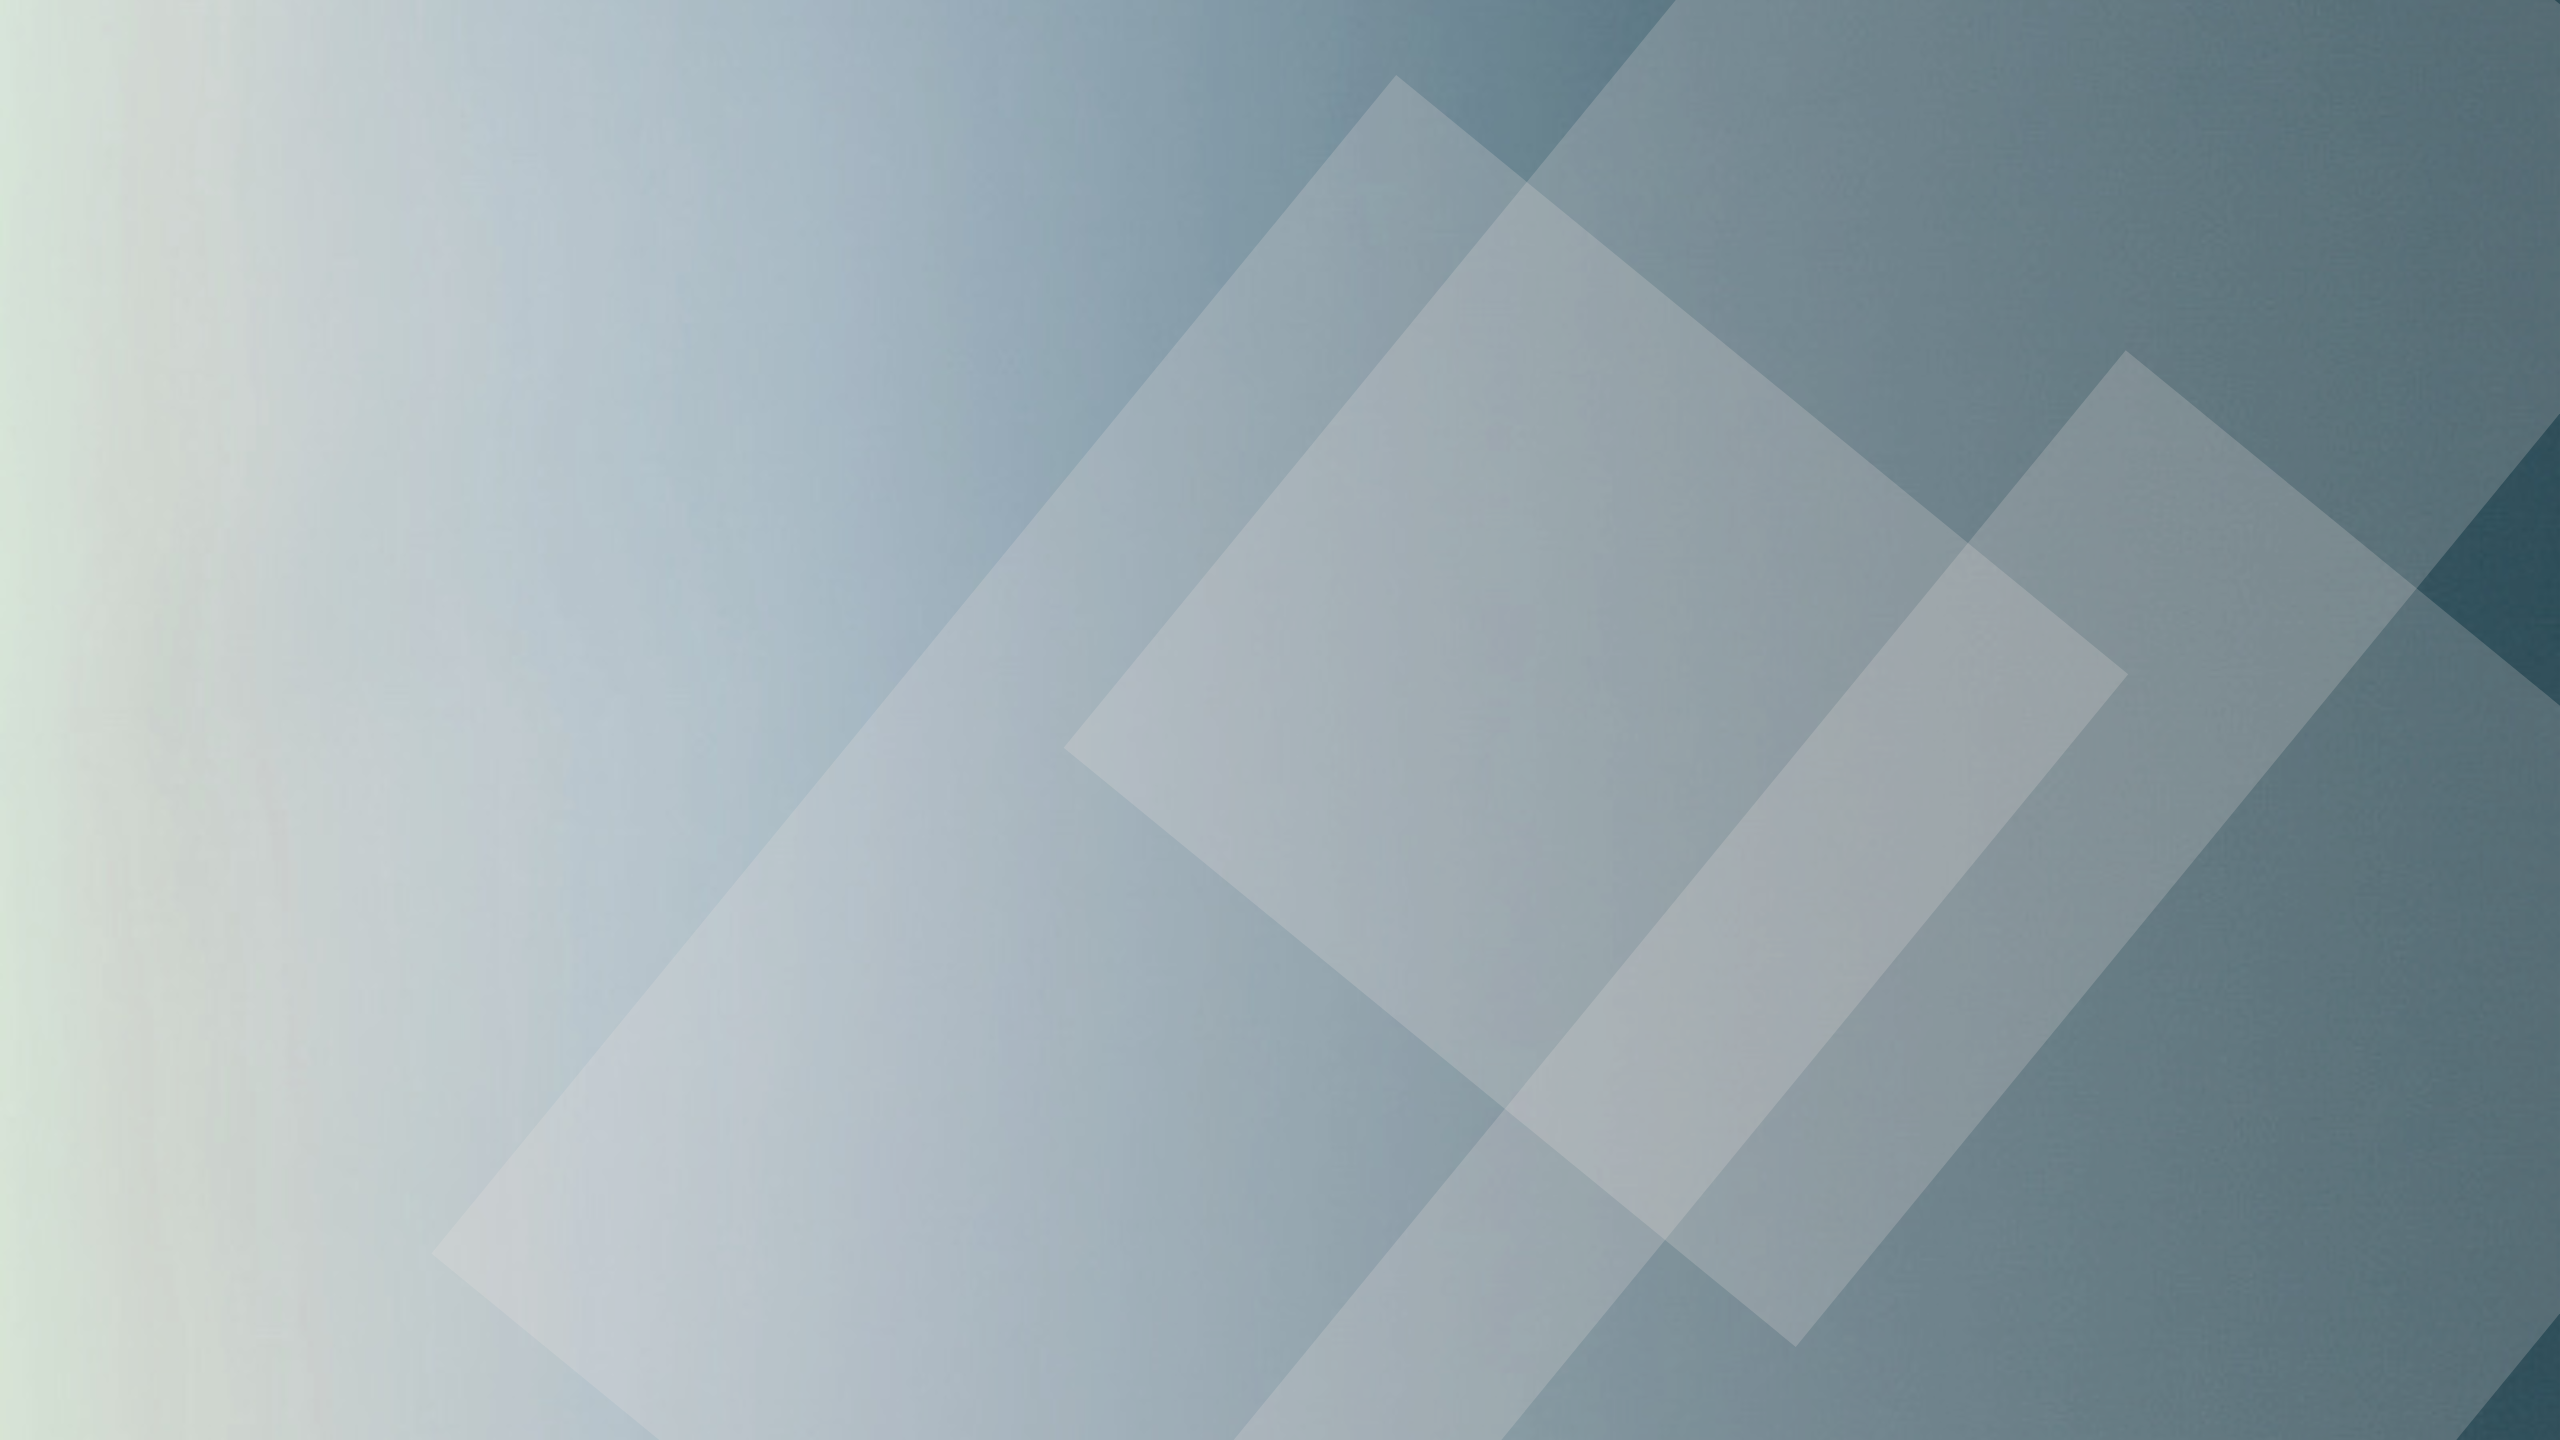
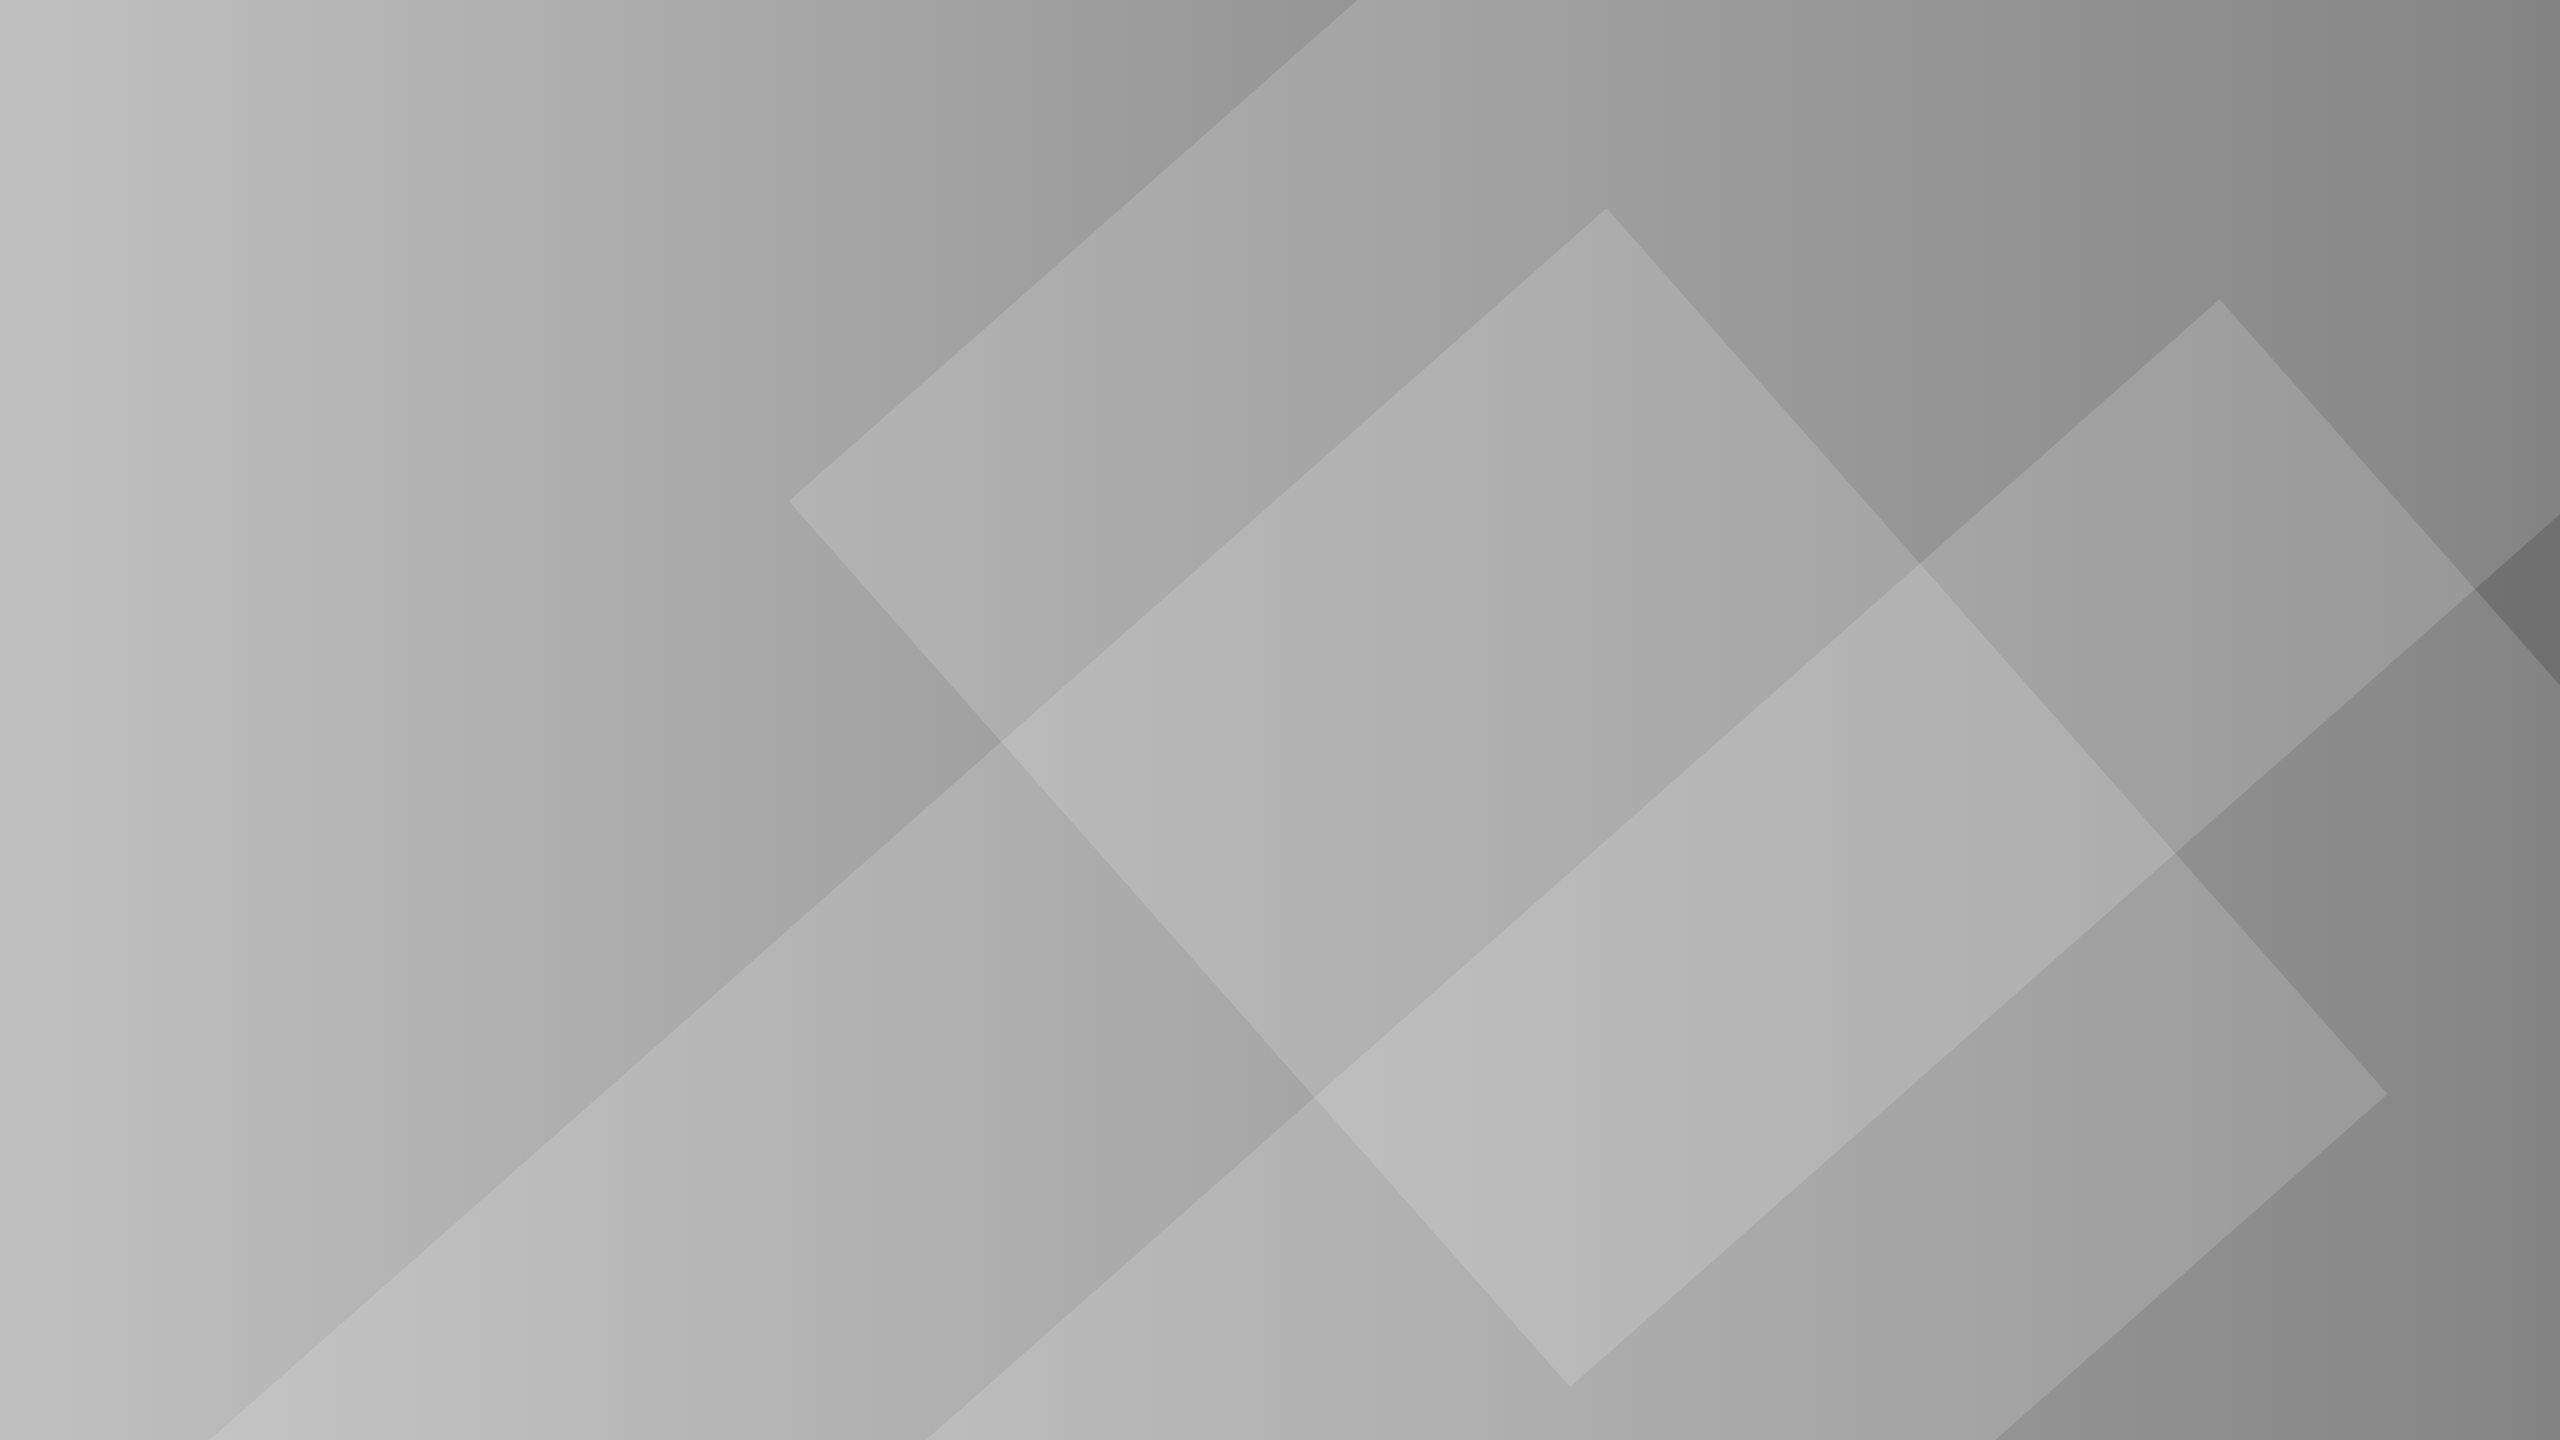
CSS: about me

diff --git a/style.css b/style.css
@@ -1,5 +1,3 @@
-/* Global */
-
 :root {
   /* Color */
   --color-white: #ffffff;
@@ -28,6 +26,7 @@
   --weight-regular: 400;
 }
 
+/* Global */
 * {
   box-sizing: border-box;
   margin: 0;
@@ -52,6 +51,26 @@ button {
   cursor: pointer;
   border: none;
   outline: none;
+  font-size: var(--font-small);
+}
+
+h1 {
+  font-size: var(--font-large);
+  margin-bottom: 10px;
+}
+
+h2 {
+  font-size: var(--font-medium);
+  margin-bottom: 10px;
+}
+
+p {
+  font-size: var(--font-regular);
+}
+
+.section {
+  margin: 60px;
+  text-align: center;
 }
 
 /*Navbar*/
@@ -104,7 +123,7 @@ button {
 /*Home*/
 #home {
   display: flex;
-  background: no-repeat url("imgs/home-background3.png");
+  background: no-repeat url("imgs/home-background.png");
   background-size: cover;
   background-position: center;
   color: var(--color-white);
@@ -125,13 +144,44 @@ button {
 
 .home__description {
   font-size: var(--font-medium);
-  margin-bottom: 10px;
 }
 
 .home__contactBtn {
   color: var(--color-white);
-  font-size: var(--font-small);
   border: 1px solid var(--color-white);
   border-radius: 4px;
   padding: 2px 10px;
+}
+
+.home__contactBtn:hover {
+  color: var(--color-dark-grey);
+  border-color: var(--color-dark-grey);
+}
+
+/*About me*/
+
+.about__description {
+  margin-bottom: 40px;
+}
+
+.skills__container {
+  display: flex;
+  justify-content: center;
+}
+
+.skill {
+  display: flex;
+  flex-direction: column;
+  position: relative;
+  transition: all 100ms ease-in;
+}
+
+.skill:hover {
+  transform: scale(1.05);
+}
+
+.skill__img {
+  width: auto;
+  height: 80px;
+  margin: 20px;
 }

diff --git a/index.html b/index.html
@@ -44,7 +44,7 @@
         </div>
     </section>
 <!--About-->
-    <section id="about">
+    <section id="about" class="section">
         <h1 class="about__title">About me</h1>
         <p class="about__description">
             우연히 접하게 된 개발에 흥미를 느끼고 스스로 하나하나 배워가고 있습니다. <br/>
@@ -53,8 +53,8 @@
                 끊임없이 배우고 소통하며 함께 일하고싶은 개발자가 되겠습니다.
         </p>
         <div class="about__skills">
-            <h1 class="about__skills__title">Skills</h1>
-            <div class="skills_container">
+            <h2 class="about__skills__title">Skills</h2>
+            <div class="skills__container">
                 <div class="skill">
                     <img src="imgs/skills/HTML logo.png" alt="skill" class="skill__img">
                     <span class="skill_name">HTML</span>
@@ -71,7 +71,7 @@
         </div>
     </section>
 <!--Projects-->
-    <section id="projects">
+    <section id="projects" class="section">
         <h1 class="projects__title">Projects</h1>
         <div class="projects__container">
             <div class="project">
@@ -87,7 +87,7 @@
         </div>
     </section>
 <!--Contact-->
-    <section id="contact">
+    <section id="contact" class="section">
         <h1 class="contact__title">Let's talk</h1>
         <h2 class="contact__email">hyebinjo91@gmail.com</h2>
         <div class="contact__links">
